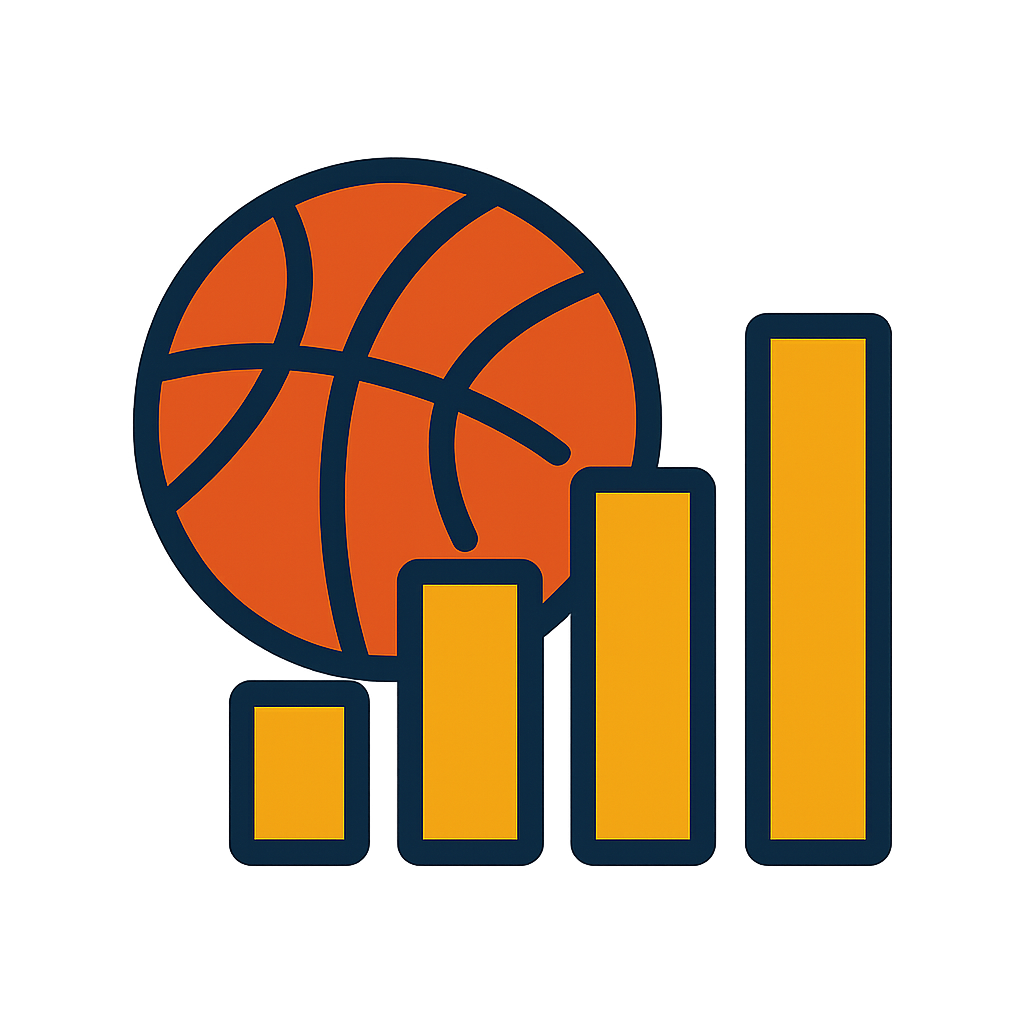
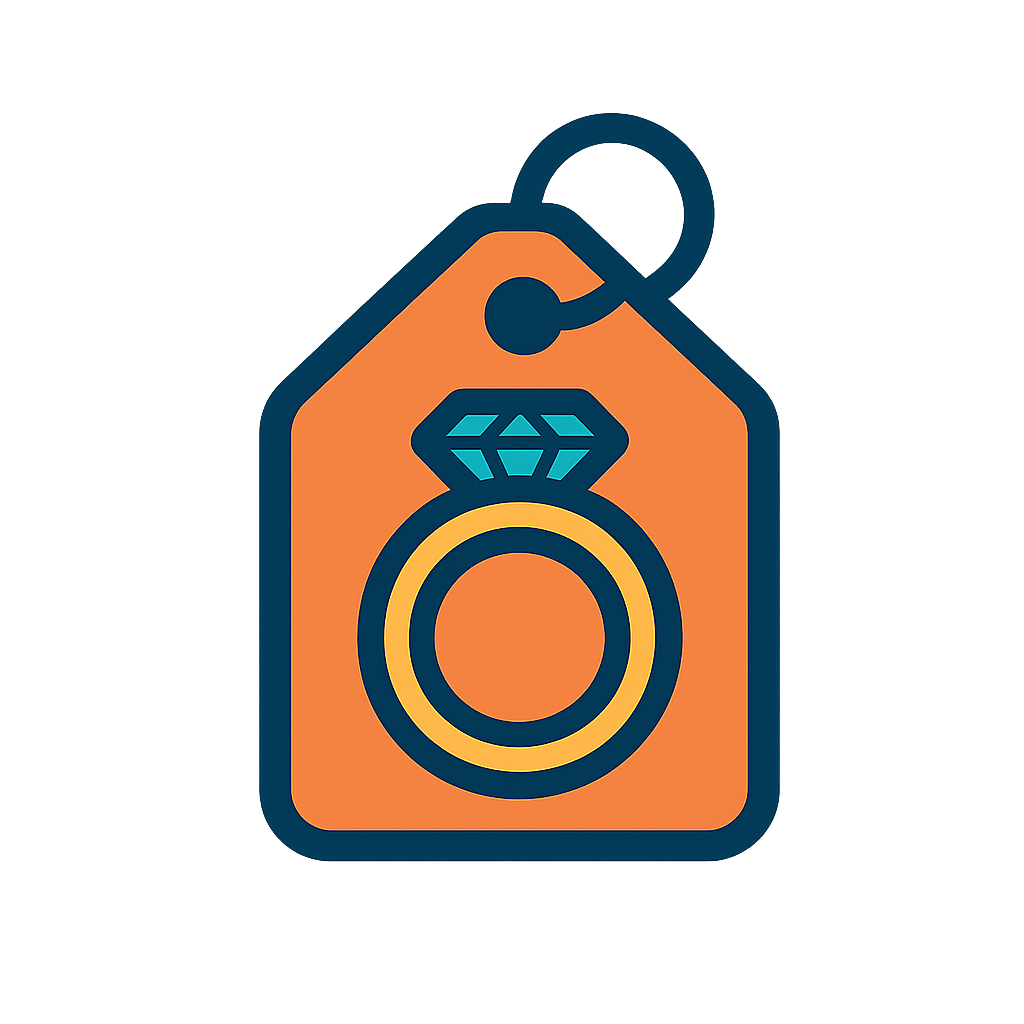
returns assistant text on image refinements

diff --git a/icon_gen.py b/icon_gen.py
@@ -104,13 +104,11 @@ def edit_icon(
     instruction: str,
     *,
     size: str = "1024x1024",
-) -> Image.Image:
-    """Edit an existing icon based on a text instruction. Returns PIL Image (RGBA).
+) -> tuple[Image.Image, str]:
+    """Edit an existing icon based on a text instruction.
 
-    Uses the OpenAI Responses API with GPT-4o and the image_generation tool.
-    The model sees the actual image and generates an edited version in one call,
-    so edits like "make the ball black" modify the real image instead of
-    regenerating from scratch.
+    Returns (image, message) — the edited PIL Image (RGBA) and any text the
+    model included alongside the image.
     """
     client = _get_client()
 
@@ -140,10 +138,20 @@ def edit_icon(
         }],
     )
 
-    # Extract the generated image from the response
+    # Extract image and text from the response
+    image = None
+    text_parts: list[str] = []
+
     for item in response.output:
         if item.type == "image_generation_call":
             image_bytes = base64.b64decode(item.result)
-            return Image.open(BytesIO(image_bytes)).convert("RGBA")
+            image = Image.open(BytesIO(image_bytes)).convert("RGBA")
+        elif item.type == "message" and hasattr(item, "content"):
+            for block in item.content:
+                if hasattr(block, "text"):
+                    text_parts.append(block.text)
 
-    raise RuntimeError("The model did not generate an image. Try a different instruction.")
+    if image is None:
+        raise RuntimeError("The model did not generate an image. Try a different instruction.")
+
+    return image, "\n".join(text_parts)

diff --git a/cli/app.py b/cli/app.py
@@ -120,11 +120,13 @@ def _handle_generate(session: Session) -> State:
 def _handle_refine(session: Session, instruction: str) -> State:
     """Edit the current icon based on the user's instruction."""
     try:
-        image = ui.run_with_spinner(
+        image, message = ui.run_with_spinner(
             "Editing your icon...",
             lambda: edit_icon(session.current_image, instruction),
         )
         session.current_image = image
+        if message.strip():
+            ui.show_info(message)
         _save_preview(session)
         return State.REVIEW
 